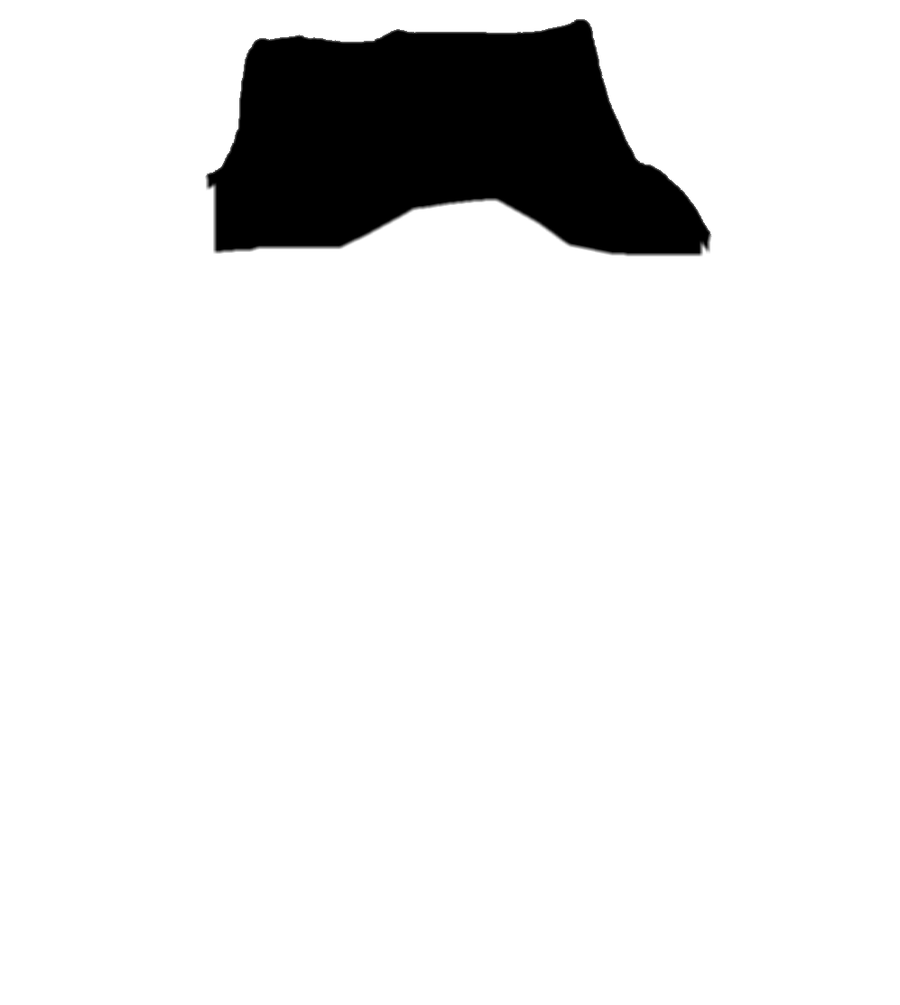
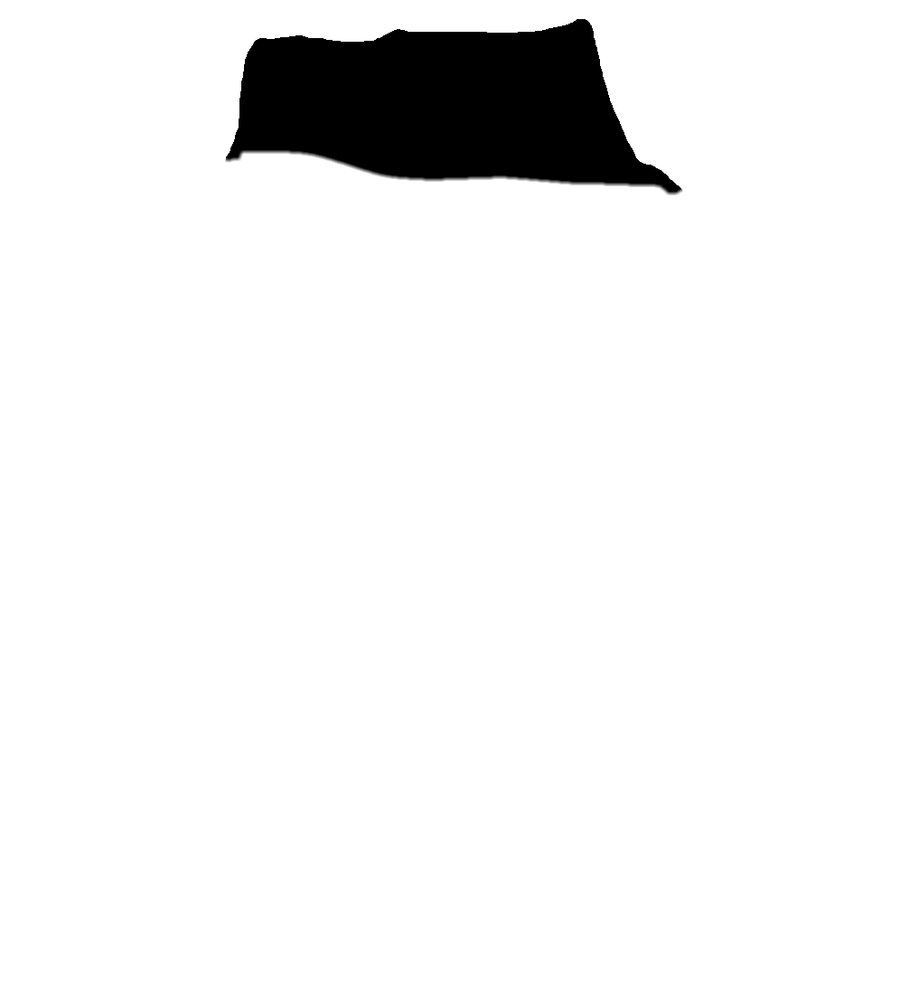
fix(storefront): BIL-2473 Hose-Konfigurator — Bund als Stoff, Hem als Naht
Zweite Board-Ablehnung desselben Features ("schlampig ausgeschnitten und
bündchen von hose so abgetrennt als ob es ein schulkind mit photoshop gemacht
hätte"). QA hat farbabhängiges Rendering vermutet. Gemessen ist der Befund
gemischt — die drei sichtbaren Defekte sind farbunabhängig, der vierte ist
tatsächlich farbabhängig:

1. BUND-MASKE. Der Bund wurde als "druckfreie Region oben" segmentiert, mit
   einem 14px-Sättigungsfenster. Der Aquarelldruck ist aber sparsam auf weissem
   Grund, also fanden auch grössere weisse Lücken UNTER dem Bund keinen
   gesättigten Pixel, hingen sich an die Bund-Komponente und wurden von der
   Hem-Glättung mitgezogen. Ergebnis: eine Bundkante, die ~70px in den Körper
   ausfranste und seitlich über die echte Blende hinaus stufte. 30px/thr 18:
   Unterkante p50 316→239 (echter Saum y≈247), Ausreisser-Spalten 150→38.

2. NAHT-RIDGE CLIPPTE AUF 255. applySeamRelief hellt multiplikativ auf, die
   Strickzonen liegen aber schon auf `lit` (252) — also clippte die Falzkante
   auf 255, und 255 ist unter `mix-blend-mode: multiply` die Swatch-Farbe bei
   VOLLER Sättigung. Entlang des ganzen Saums lief damit ein 1-2px-Strich in
   purer, ungeschatteter Farbe: gemessen an base.webp x=450 `243 250 255 | 167`.
   Das ist die Outline, die das Board sieht. Am Referenzfoto liest der Saum
   205 → 151 → 190, also dunkle Linie AUF der Naht und kein heller Grat.
   -> ridge.offset (Grat wandert in die Blende), ridge.strength ein Drittel,
[…]

Changed region(s): [[0.2178, 0.1234, 0.8089, 0.2776], [0.6533, 0.0308, 0.6844, 0.0617]]

diff --git a/apps/storefront/src/app/konfigurator/hose/pants-photo.tsx b/apps/storefront/src/app/konfigurator/hose/pants-photo.tsx
@@ -27,7 +27,11 @@ interface PantsPhotoProps {
  */
 const ASSET_BASE = "/konfigurator/hose-foto";
 const ASSET_W = 900;
-const ASSET_H = 1005;
+// BIL-2473: 1006, was 1005 — the silhouette de-speckle shifted the garment
+// bbox by one source row, so the crop is one px taller. Must track the real
+// asset height or the `aspectRatio` box and the `object-fit: contain` image
+// disagree and the overlays drift off their zones.
+const ASSET_H = 1006;
 
 export function PantsPhoto({ paints, title = "Hose-Vorschau", className }: PantsPhotoProps) {
   return (
